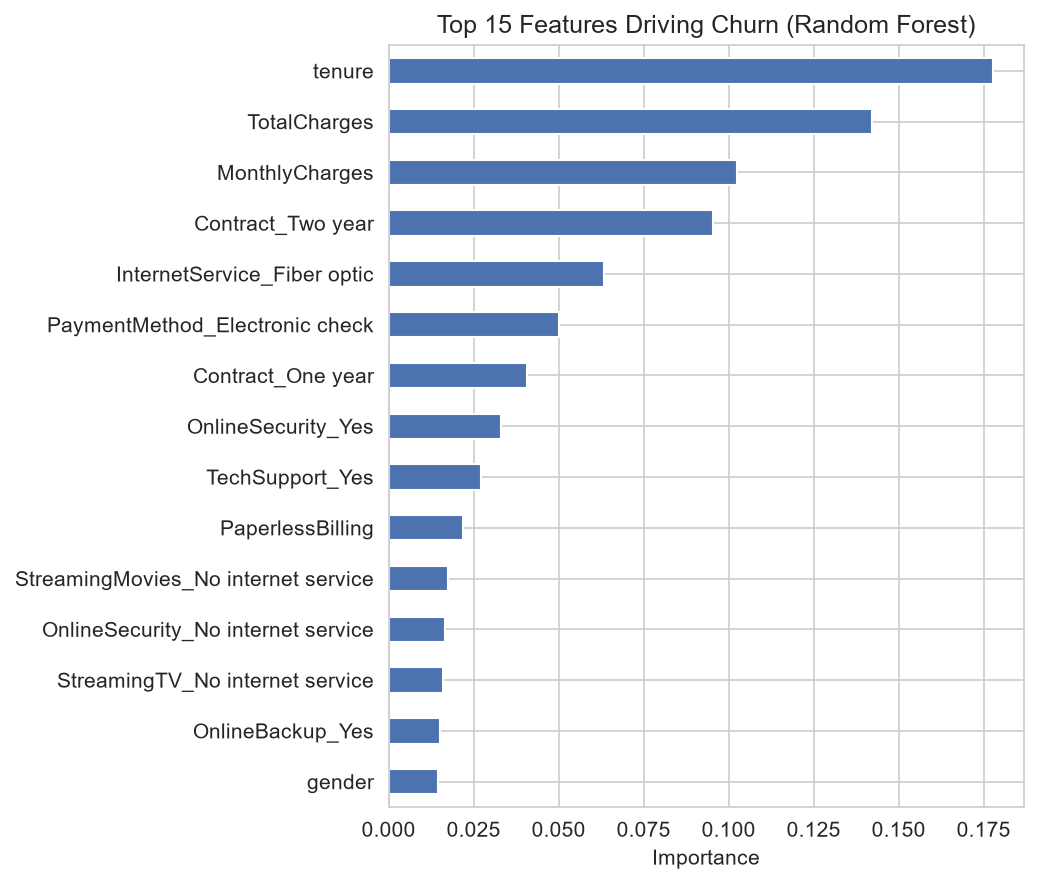
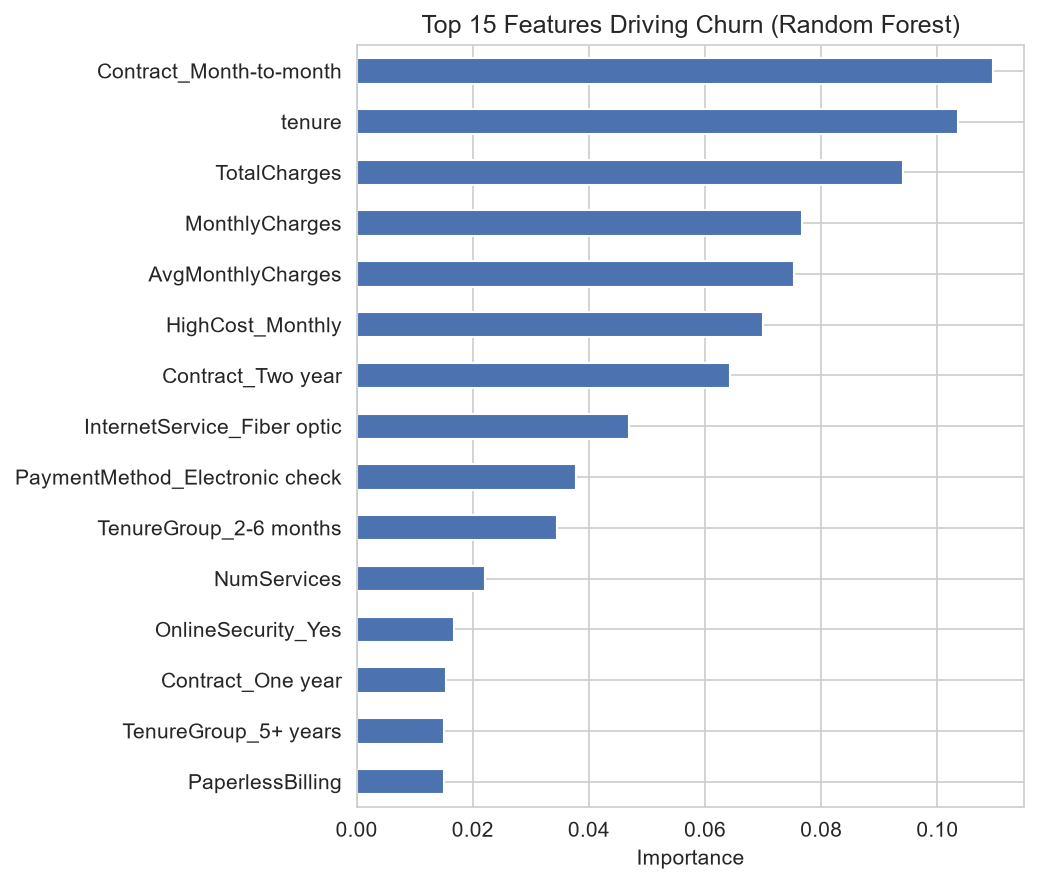
Finalize and complete project

diff --git a/README.md b/README.md
@@ -1,2 +1,86 @@
-# customer-churn-prediction
-End-to-end machine learning project for predicting telecom customer churn using Python, Scikit-learn, and XGBoost. Includes EDA, preprocessing, model comparison, evaluation, and business insights.
+# Customer Churn Prediction
+
+## 📊 Project Overview
+This project predicts which telecom customers are likely to churn using machine learning classification models. The analysis identifies key drivers of churn and provides actionable business recommendations.
+
+## 🎯 Key Features
+- **Exploratory Data Analysis** - Understanding churn patterns and customer behavior
+- **Feature Engineering** - Created 4 new features for better predictions
+- **Multiple Models** - Logistic Regression, Random Forest, XGBoost
+- **Hyperparameter Tuning** - GridSearchCV optimization for XGBoost
+- **Threshold Optimization** - Find optimal probability threshold for business decisions
+- **SHAP Analysis** - Deep model interpretability
+- **Business Dashboard** - Actionable recommendations for retention strategies
+
+## 📁 Project Structure
+customer-churn-prediction/
+├── Customer_Churn_Prediction.ipynb # Main Jupyter notebook
+├── data/
+│ └── telco_churn.csv # Dataset
+├── outputs/
+│ ├── figures/ # All visualizations (13 plots)
+│ ├── best_xgb_model.pkl # Trained model
+│ ├── classification_report.txt # Model metrics
+│ ├── model_comparison.csv # Performance comparison
+│ ├── feature_importance_rf.csv # RF feature importance
+│ ├── feature_importance_xgb.csv # XGB feature importance
+│ └── business_recommendations.txt # Business insights
+└── README.md # This file
+
+
+## 🚀 Models Compared
+|      Model          | ROC-AUC | PR-AUC |
+|---------------------|---------|--------|
+| Logistic Regression | ~0.84   | ~0.63  |
+| Random Forest       | ~0.84   | ~0.65  |
+| XGBoost (Tuned)     | ~0.84   | ~0.65  |
+
+## 💡 Key Business Insights
+1. **Highest Risk Segment**: Month-to-month contracts with high monthly charges (>$70)
+2. **Critical Period**: New customers (tenure < 6 months) need immediate retention focus
+3. **Service Risk**: Fiber optic internet customers show higher churn rates
+4. **Payment Method**: Electronic check payment method correlates with higher churn
+
+## 🔧 Recommended Retention Strategies
+1. Offer annual contract discounts to month-to-month customers
+2. Implement 'welcome' retention program for first 6 months
+3. Bundle high-speed internet with streaming services
+4. Incentivize electronic check customers to switch to auto-pay
+
+## 📈 Performance Metrics
+- **Best Model**: Random Forest (ROC-AUC: 0.84)
+- **Precision (Churn)**: 0.53
+- **Recall (Churn)**: 0.77
+- **F1-Score (Churn)**: 0.63
+
+## 🛠️ Technologies Used
+- Python 3.x
+- Pandas, NumPy (Data processing)
+- Scikit-learn (Machine Learning)
+- XGBoost (Gradient Boosting)
+- SHAP (Model Interpretability)
+- Matplotlib, Seaborn (Visualization)
+- Jupyter Notebook (Development)
+
+## 📊 Visualizations
+All plots are saved in `outputs/figures/`:
+- Distribution plots
+- Model comparison ROC curves
+- Feature importance charts
+- SHAP analysis visualizations
+- Precision-Recall threshold optimization
+
+## 🏁 How to Run
+1. Clone this repository
+2. Install required packages: `pip install -r requirements.txt`
+3. Open Jupyter Notebook
+4. Run `Customer_Churn_Prediction.ipynb`
+
+## 📝 License
+MIT License
+
+## 👤 Author
+Sanduni Jayasinghe
+
+## 📧 Contact
+www.linkedin.com/in/sanduni-jayasinghe-881921385